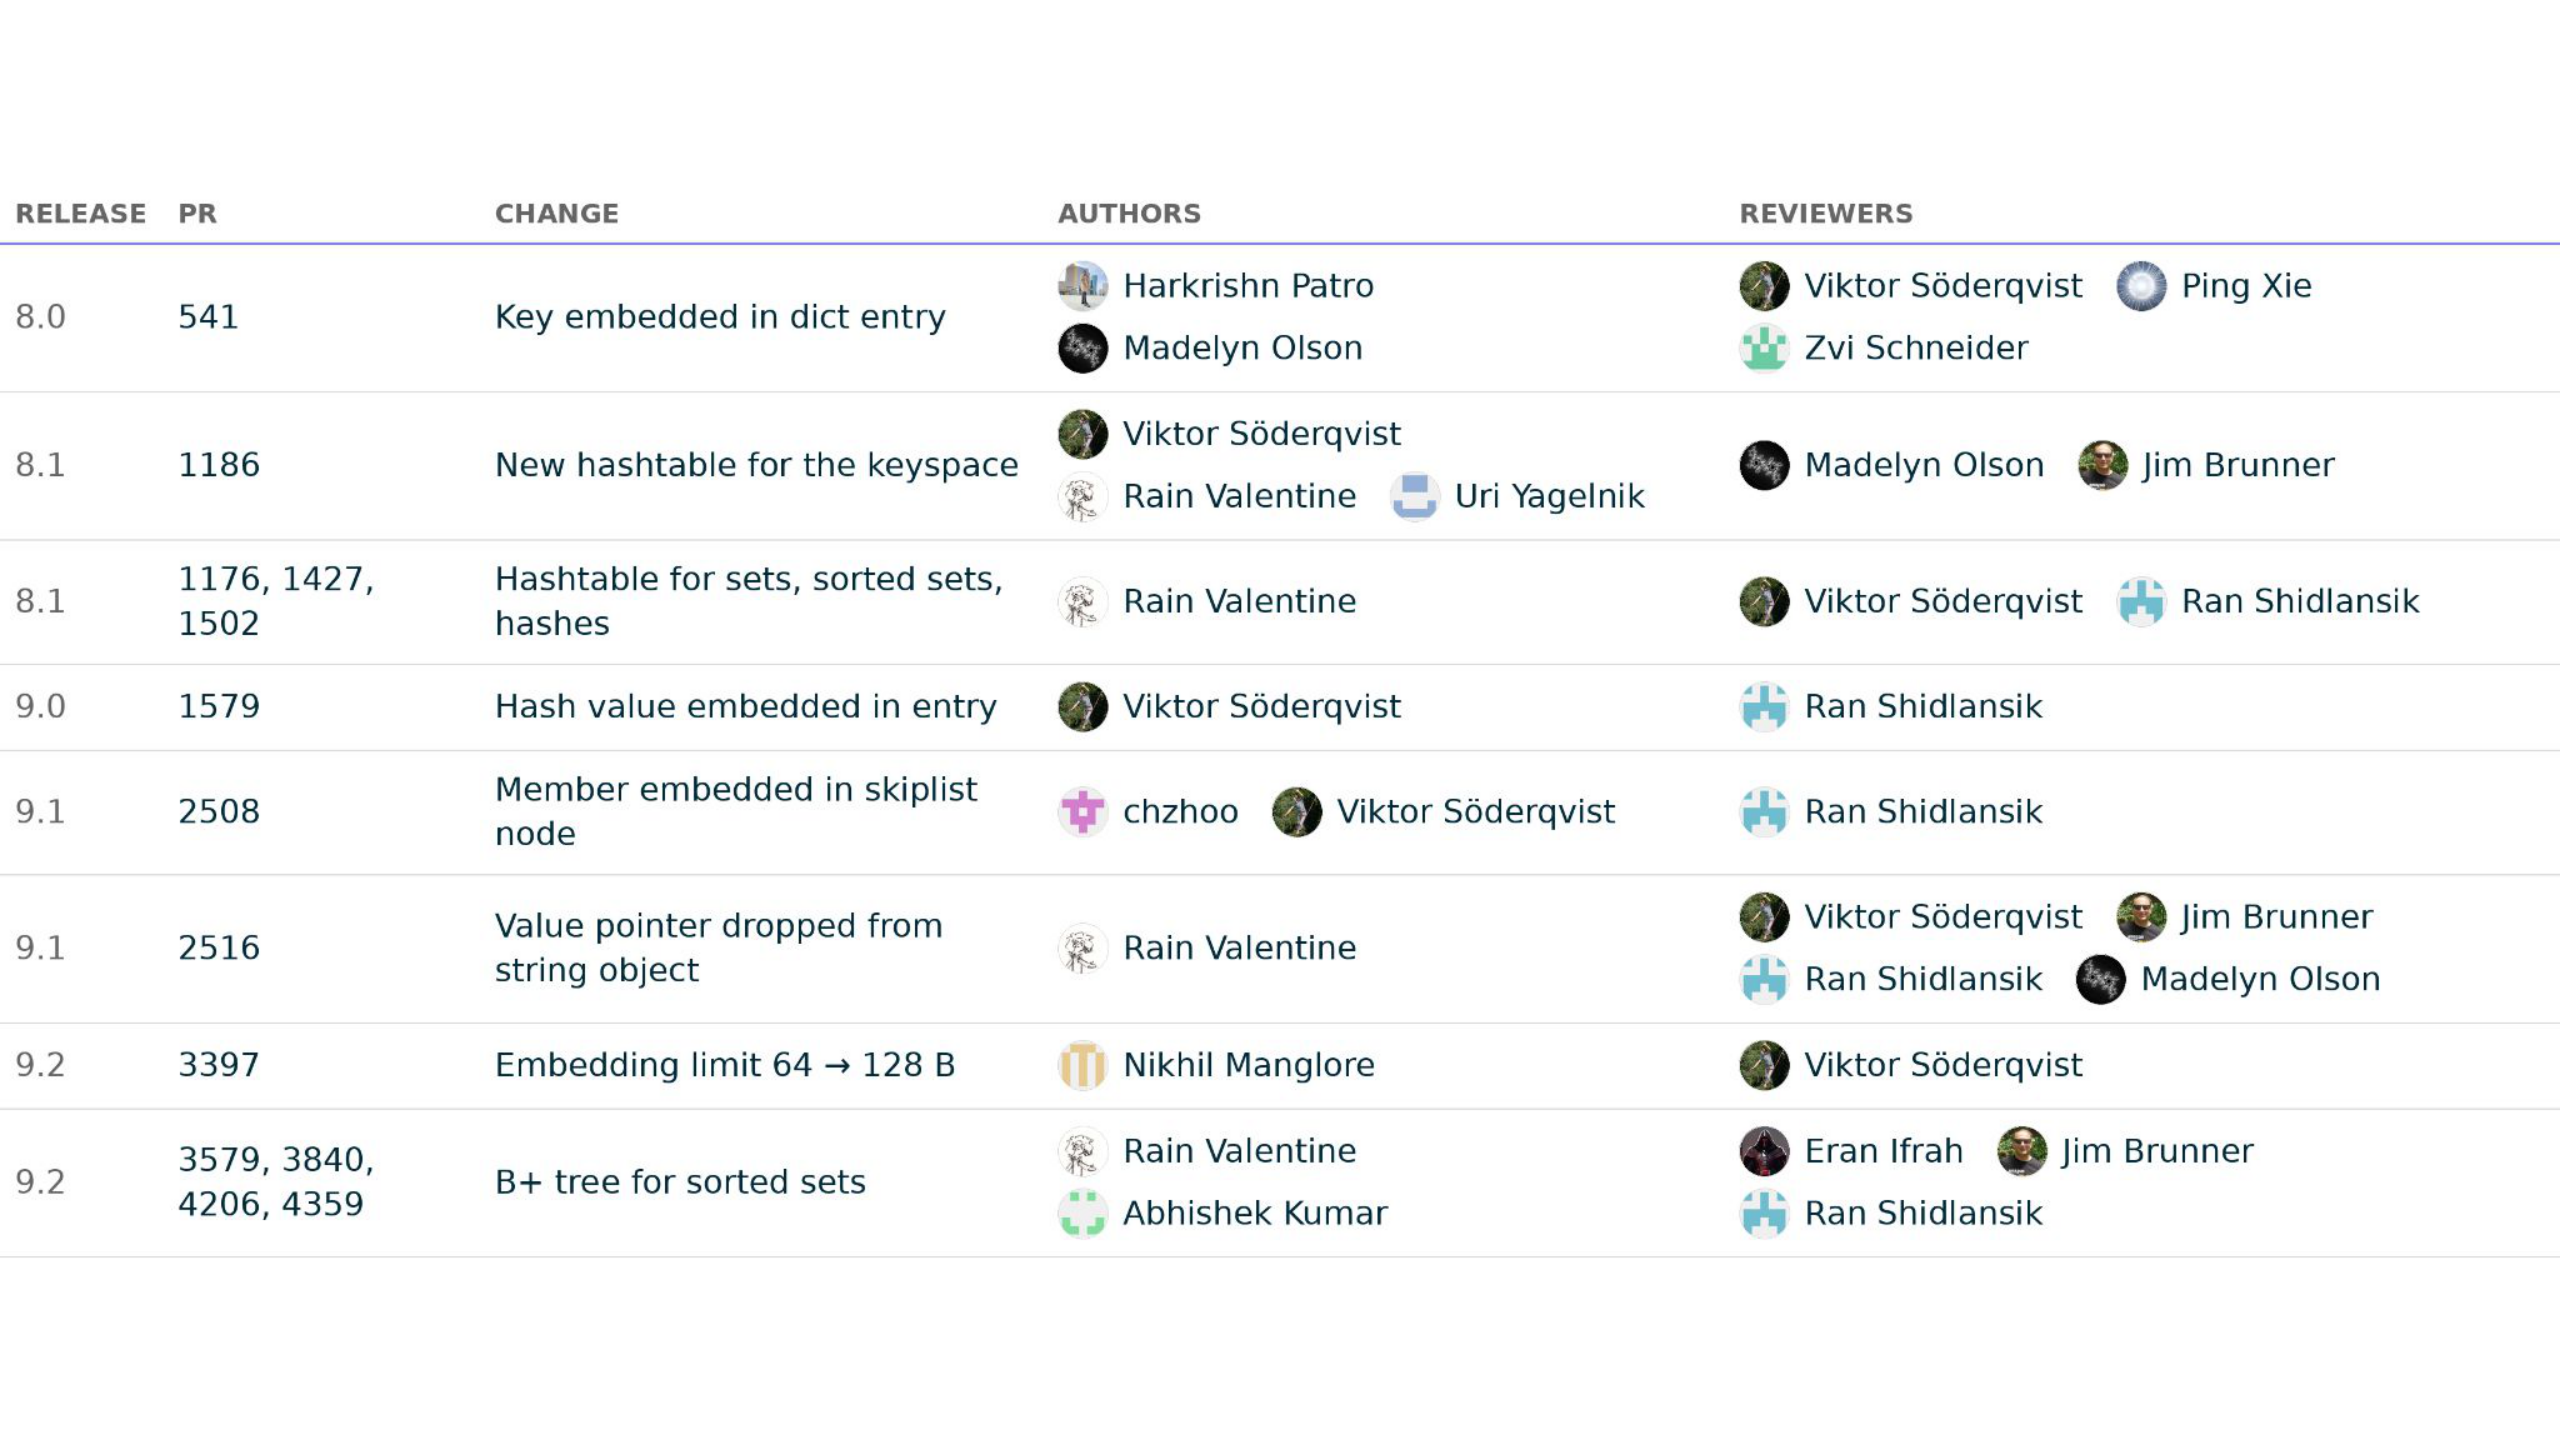
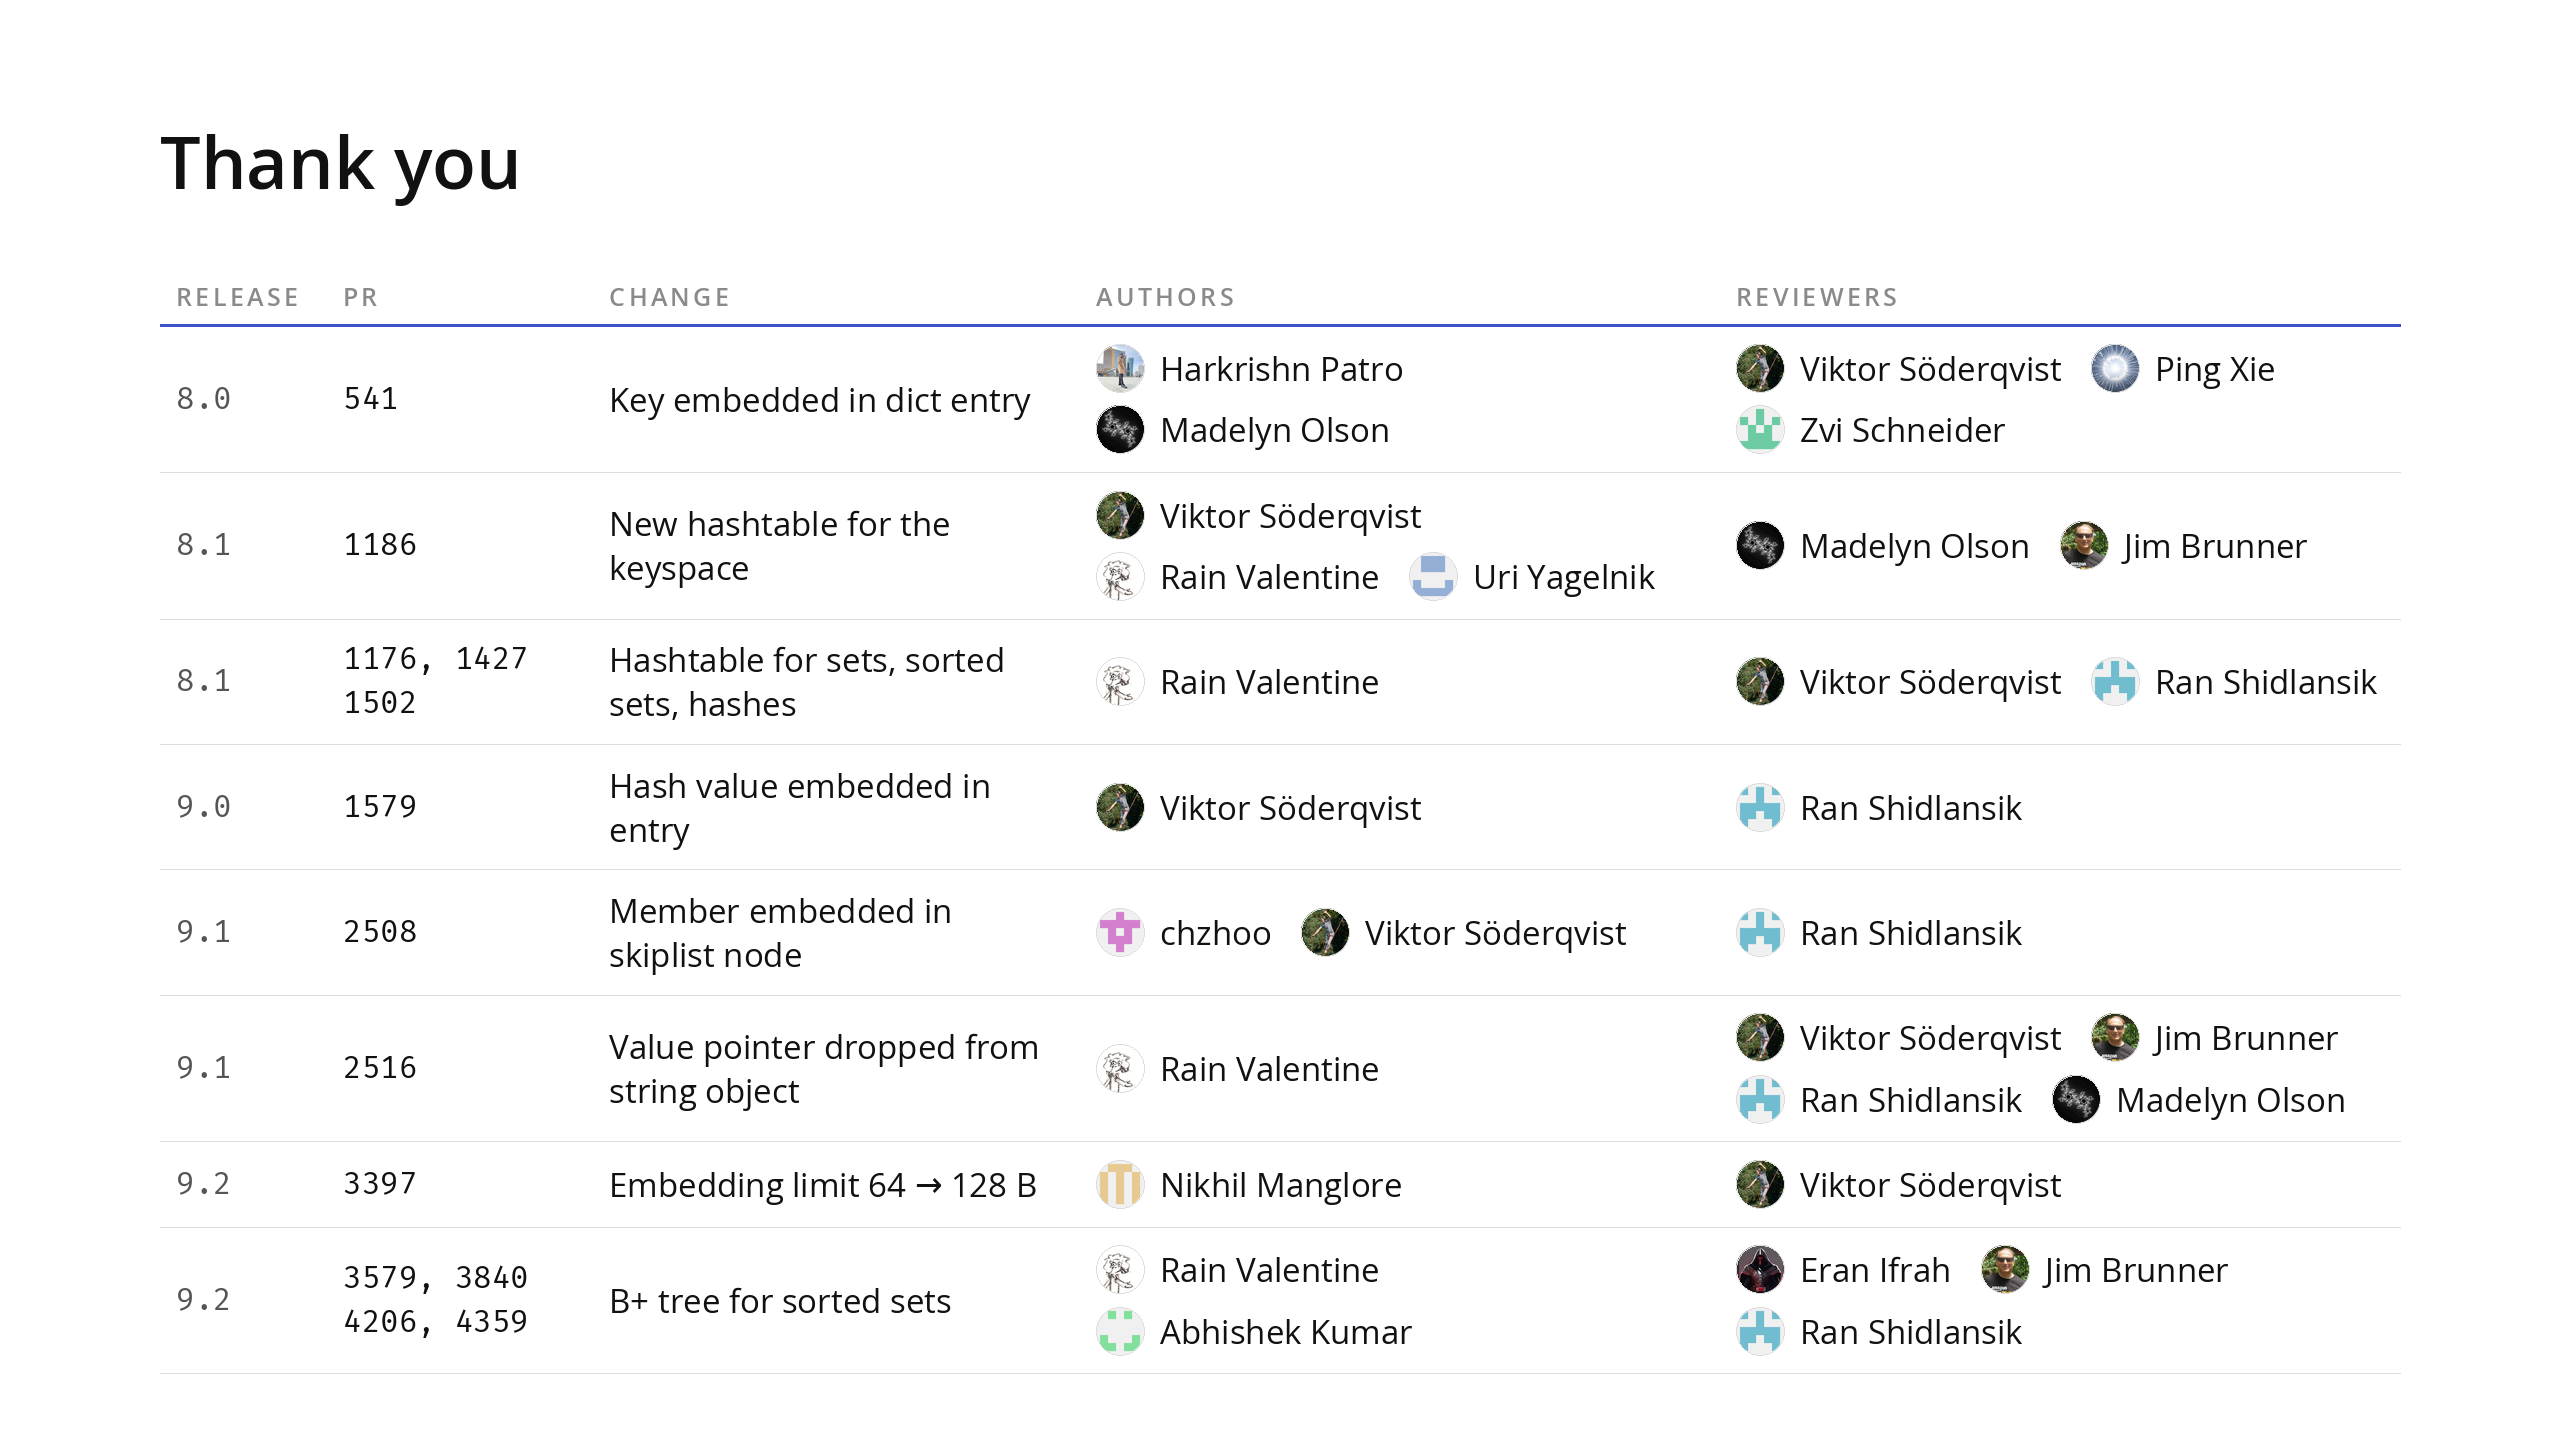
Credits slide re-typeset: Open Sans + Fira Mono, same frame as the other re-typeset slides
Page 22 was the one body slide that was still a pasted PNG of text, set in DejaVu Sans and
using three quarters of the slide width. makeover/credits.py renders it like slides 2, 4, 11,
15 and 21: 1920x1080 design frame, 'Thank you' header at (120, 84), 120 px margins, the
ink/grey/muted/accent palette, Open Sans for change descriptions and names, Fira Mono for the
release and PR numbers, the GitHub avatars beside each name (vendored in makeover/avatars/).
Body text goes from ~24 px to ~33 px on the 2560 slide. Rows are CREDITS-SLIDE.md's; no footer.

makeover.py: LITE_KEEP gains '022' and the credits block imports credits.render() instead of
copying the export. That is Rimuru's file; two lines, noted here as AGENTS.md asks.

diff --git a/makeover/credits.py b/makeover/credits.py
@@ -1,0 +1,180 @@
+"""Credits slide (page 22), re-typeset: one row per memory-saving PR, GitHub avatars beside names.
+
+Same frame as the other re-typeset slides (makeover.py): 1920x1080 design coordinates rendered at
+2560x1440, Open Sans from fonts/opensans/, the header at (120, 84), 120 px side margins, the deck's
+ink/grey/muted/accent palette. Release and PR numbers are set in Fira Mono (fonts/firamono/), the
+deck's face for code-like tokens; everything else is Open Sans. Avatars live in makeover/avatars/.
+Rows come from CREDITS-SLIDE.md in the talk workspace (evidence per name in CREDITS.md there).
+
+Imported by makeover.py: render() returns the PIL image for save(im, '022').
+"""
+from pathlib import Path
+from PIL import Image, ImageDraw, ImageFont
+
+HERE = Path(__file__).parent
+FONTS = HERE.parent / 'fonts'
+AV = HERE / 'avatars'
+
+S = 2560 / 1920
+W, H = 2560, 1440
+INK, GREY, MUTED, ACCENT, RULE = '#111111', '#555555', '#8a8a8a', '#3F51C8', '#dddddd'
+
+
+def P(v): return round(v * S)
+def sans(w, size): return ImageFont.truetype(str(FONTS / f'opensans/OpenSans-{w}.ttf'), P(size))
+def mono(w, size): return ImageFont.truetype(str(FONTS / f'firamono/FiraMono-{w}.ttf'), P(size))
+
+
+PEOPLE = {
+    'Harkrishn Patro': 'hpatro', 'Madelyn Olson': 'madolson', 'Viktor Söderqvist': 'zuiderkwast',
+    'Rain Valentine': 'rainsupreme', 'Uri Yagelnik': 'uriyage', 'Ran Shidlansik': 'ranshid',
+    'chzhoo': 'chzhoo', 'Nikhil Manglore': 'Nikhil-Manglore', 'Abhishek Kumar': 'dubey02',
+    'Eran Ifrah': 'eifrah-aws', 'Jim Brunner': 'JimB123', 'Ping Xie': 'PingXie',
+    'Zvi Schneider': 'zvi-code',
+}
+
+ROWS = [
+    ('8.0', ['541'], 'Key embedded in dict entry',
+     ['Harkrishn Patro', 'Madelyn Olson'], ['Viktor Söderqvist', 'Ping Xie', 'Zvi Schneider']),
+    ('8.1', ['1186'], 'New hashtable for the keyspace',
+     ['Viktor Söderqvist', 'Rain Valentine', 'Uri Yagelnik'], ['Madelyn Olson', 'Jim Brunner']),
+    ('8.1', ['1176', '1427', '1502'], 'Hashtable for sets, sorted sets, hashes',
+     ['Rain Valentine'], ['Viktor Söderqvist', 'Ran Shidlansik']),
+    ('9.0', ['1579'], 'Hash value embedded in entry',
+     ['Viktor Söderqvist'], ['Ran Shidlansik']),
+    ('9.1', ['2508'], 'Member embedded in skiplist node',
+     ['chzhoo', 'Viktor Söderqvist'], ['Ran Shidlansik']),
+    ('9.1', ['2516'], 'Value pointer dropped from string object',
+     ['Rain Valentine'], ['Viktor Söderqvist', 'Jim Brunner', 'Ran Shidlansik', 'Madelyn Olson']),
+    ('9.2', ['3397'], 'Embedding limit 64 \u2192 128 B',
+     ['Nikhil Manglore'], ['Viktor Söderqvist']),
+    ('9.2', ['3579', '3840', '4206', '4359'], 'B+ tree for sorted sets',
+     ['Rain Valentine', 'Abhishek Kumar'], ['Eran Ifrah', 'Jim Brunner', 'Ran Shidlansik']),
+]
+
+# design-unit geometry
+X0, X1 = 120, 1800                      # the makeover frame's side margins
+TABLE_TOP = 200                         # under the header
+COLS = [('Release', 125), ('PR', 200), ('Change', 365), ('Authors', 480), ('Reviewers', 510)]
+assert sum(w for _, w in COLS) == X1 - X0
+PAD_X = 12                              # cell text inset
+BODY = 25                               # Open Sans Regular, prose + names
+NUM = 23                                # Fira Mono, release + PR numbers (mono looks larger at equal size)
+HEAD = 19                               # column labels, SemiBold, tracked, muted
+AVATAR = 36
+CHIP_GAP_X, CHIP_GAP_Y = 22, 10
+TEXT_LINE_H = 33
+CELL_PAD_Y = 14
+
+f_body, f_name, f_num, f_head = sans('Regular', BODY), sans('Regular', BODY), mono('Regular', NUM), sans('SemiBold', HEAD)
+# Open Sans has no U+2192; borrow the arrow from DejaVu Sans at the same size (as makeover.py does)
+f_arrow = ImageFont.truetype('/usr/share/fonts/dejavu-sans-fonts/DejaVuSans.ttf', P(BODY))
+
+
+def tw(font, text): return font.getlength(text) / S
+
+
+def wrap(tokens, width, font, sep=' '):
+    lines, cur = [], ''
+    for t in tokens:
+        cand = t if not cur else cur + sep + t
+        if cur and tw(font, cand) > width:
+            lines.append(cur); cur = t
+        else:
+            cur = cand
+    return lines + [cur]
+
+
+def chip_w(name): return AVATAR + 12 + tw(f_name, name)
+
+
+def layout_chips(names, width):
+    lines, cur, cur_w = [], [], 0.0
+    for n in names:
+        w = chip_w(n)
+        add = w if not cur else CHIP_GAP_X + w
+        if cur and cur_w + add > width:
+            lines.append(cur); cur, cur_w = [n], w
+        else:
+            cur.append(n); cur_w += add
+    return lines + [cur]
+
+
+_av = {}
+
+
+def avatar(handle):
+    if handle not in _av:
+        d = P(AVATAR)
+        im = Image.open(AV / f'{handle}.png').convert('RGB').resize((d * 4, d * 4), Image.LANCZOS)
+        mask = Image.new('L', (d * 4, d * 4), 0)
+        ImageDraw.Draw(mask).ellipse((0, 0, d * 4 - 1, d * 4 - 1), fill=255)
+        _av[handle] = (im.resize((d, d), Image.LANCZOS), mask.resize((d, d), Image.LANCZOS))
+    return _av[handle]
+
+
+def draw_text(d, x, y, s, font, fill):
+    """Left-middle anchored text; the arrow glyph comes from DejaVu."""
+    for i, part in enumerate(s.split('\u2192')):
+        d.text((P(x), P(y)), part, font=font, fill=fill, anchor='lm'); x += tw(font, part)
+        if i < s.count('\u2192'):
+            d.text((P(x), P(y)), '\u2192', font=f_arrow, fill=fill, anchor='lm'); x += tw(f_arrow, '\u2192')
+
+
+def row_plan(row):
+    rel, prs, change, authors, reviewers = row
+    inner = [w - 2 * PAD_X for _, w in COLS]
+    pr_l = wrap(prs, inner[1], f_num, sep=', ')
+    ch_l = wrap(change.split(' '), inner[2], f_body)
+    a_l = layout_chips(authors, inner[3])
+    r_l = layout_chips(reviewers, inner[4])
+    h_text = max(len(pr_l), len(ch_l)) * TEXT_LINE_H
+    h_chip = max(len(a_l), len(r_l)) * (AVATAR + CHIP_GAP_Y) - CHIP_GAP_Y
+    return pr_l, ch_l, a_l, r_l, max(h_text, h_chip) + 2 * CELL_PAD_Y
+
+
+def render():
+    im = Image.new('RGB', (W, H), 'white'); d = ImageDraw.Draw(im)
+    d.text((P(120), P(84)), 'Thank you', font=sans('SemiBold', 54), fill=INK)
+    plans = [row_plan(r) for r in ROWS]
+    head_h = 44
+    total = head_h + sum(p[-1] for p in plans)
+    assert TABLE_TOP + total <= 1060, f'table too tall: {TABLE_TOP + total}'
+    xs = [X0]
+    for _, w in COLS:
+        xs.append(xs[-1] + w)
+    y = TABLE_TOP
+    for (label, _), x in zip(COLS, xs):
+        # tracked small caps, as the section eyebrows
+        cx = x + PAD_X
+        for ch in label.upper():
+            d.text((P(cx), P(y + head_h / 2)), ch, font=f_head, fill=MUTED, anchor='lm'); cx += tw(f_head, ch) + 2.5
+    y += head_h
+    d.line((P(X0), P(y), P(X1), P(y)), fill=ACCENT, width=P(2))
+    for (rel, prs, change, authors, reviewers), (pr_l, ch_l, a_l, r_l, h) in zip(ROWS, plans):
+        def block(lines, col, font, fill):
+            y0 = y + h / 2 - len(lines) * TEXT_LINE_H / 2
+            for i, ln in enumerate(lines):
+                draw_text(d, xs[col] + PAD_X, y0 + (i + 0.5) * TEXT_LINE_H, ln, font, fill)
+        block([rel], 0, f_num, GREY)
+        block(pr_l, 1, f_num, INK)
+        block(ch_l, 2, f_body, INK)
+        for col, lines in ((3, a_l), (4, r_l)):
+            y0 = y + h / 2 - (len(lines) * (AVATAR + CHIP_GAP_Y) - CHIP_GAP_Y) / 2
+            for i, ln in enumerate(lines):
+                x = xs[col] + PAD_X; yy = y0 + i * (AVATAR + CHIP_GAP_Y)
+                for name in ln:
+                    av, mask = avatar(PEOPLE[name])
+                    im.paste(av, (P(x), P(yy)), mask)
+                    d.ellipse((P(x), P(yy), P(x + AVATAR), P(yy + AVATAR)), outline=RULE, width=1)
+                    draw_text(d, x + AVATAR + 12, yy + AVATAR / 2, name, f_name, INK)
+                    x += chip_w(name) + CHIP_GAP_X
+        y += h
+        d.line((P(X0), P(y), P(X1), P(y)), fill=RULE, width=P(1))
+    return im
+
+
+if __name__ == '__main__':
+    import sys
+    out = Path(sys.argv[1] if len(sys.argv) > 1 else HERE.parent / 'prague-deck/slides-lite/s022.png')
+    render().save(out); print(out)

diff --git a/makeover/makeover.py b/makeover/makeover.py
@@ -18,7 +18,7 @@ from pathlib import Path
 from PIL import Image, ImageDraw, ImageFont, ImageOps
 
 LITE = '--full' not in sys.argv
-LITE_KEEP = {'002', '004', '011', '015', '021'}
+LITE_KEEP = {'002', '004', '011', '015', '021', '022'}   # 022: credits, re-typeset in credits.py
 
 HERE = Path(__file__).parent
 SRC = HERE / 'src'
@@ -226,8 +226,9 @@ chart('020', 'p20_x149.png', 'Overhead per key: B+ tree', 'Skiplist → B+ Tree'
 # ---- 21: The Future ----------------------------------------------------------------------------------
 section('021', None, 'The Future', None, None)
 
-# ---- 22: credits, untouched --------------------------------------------------------------------------
-im = Image.open(DECK / 'slides/s022.png').convert('RGB'); names.append(save(im, '022'))
+# ---- 22: credits, re-typeset (makeover/credits.py; Ranma crossed into the re-typeset set for this, 2026-10-01)
+from credits import render as render_credits   # noqa: E402
+names.append(save(render_credits(), '022'))
 
 if LITE:
     # Slide order follows the original export; only LITE_KEEP come from the renders above.

diff --git a/AGENTS.md b/AGENTS.md
@@ -25,6 +25,7 @@ keep it true; edit it when the contract changes.
 |---|---|---|
 | intro, bridge, slide player, key handling | Rimuru | `make_deck_page.py` -> `prague-deck/index.html` |
 | the five re-typeset slides (2, 4, 11, 15, 21) | Rimuru | `makeover/makeover.py` -> `prague-deck/slides-lite/` |
+| the credits slide (22), re-typeset | Ranma | `makeover/credits.py` + `makeover/avatars/`, called from `makeover.py` |
 | figures and charts inside the body slides | Ranma | `figures/` (generators, `lib/fdbars.py`, `data/*.csv`, `out/*.svg`), the `FIGURES` map in `makeover/patch_figures.py` |
 | slide content and order | Rain (Google Slides) | `source/talk.pdf` is her export; replace it, never edit it |
 
